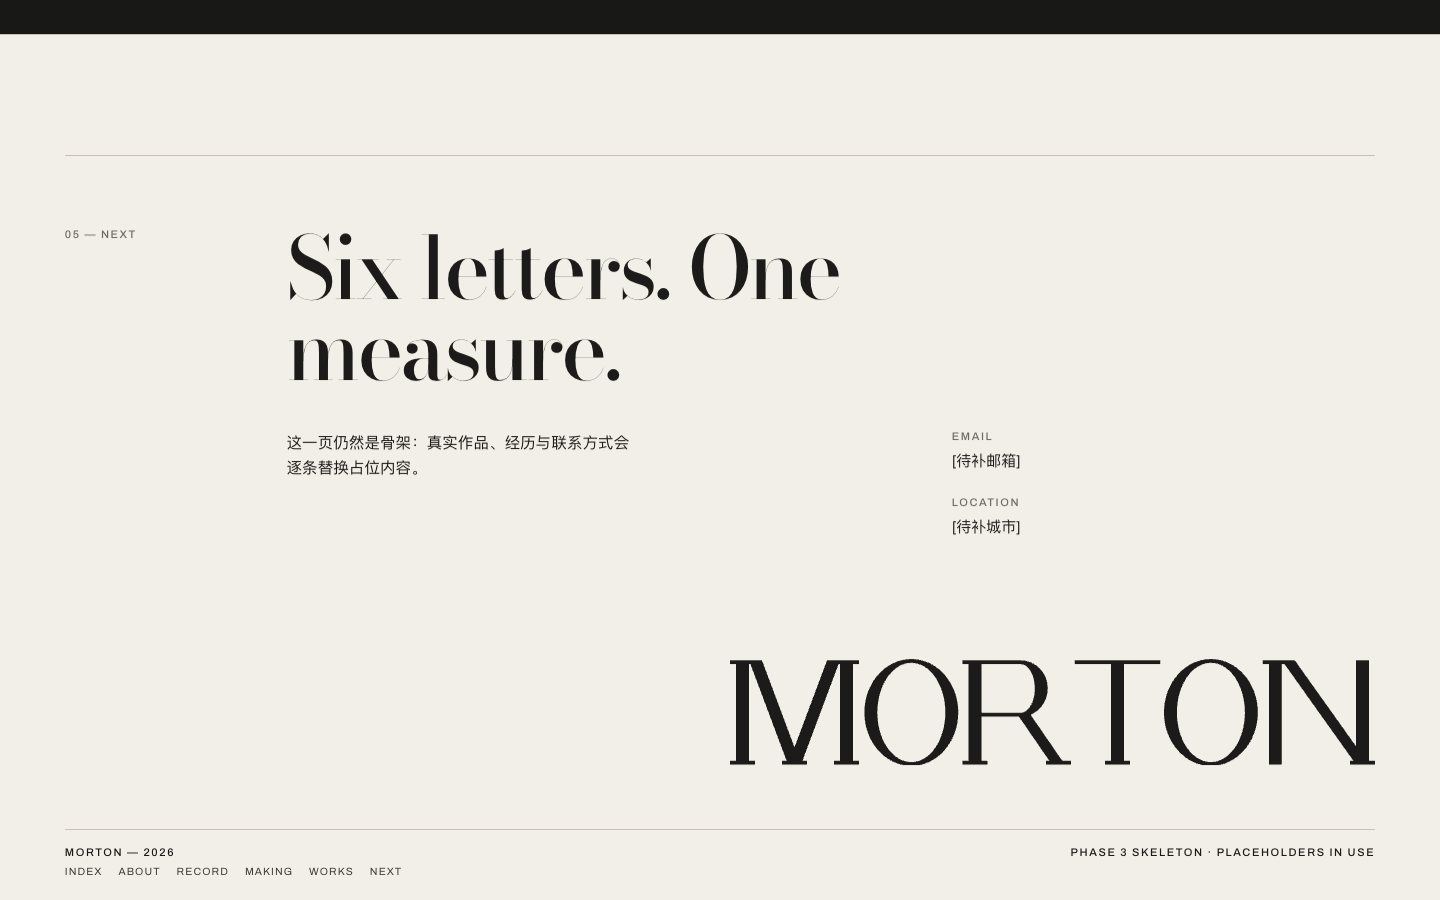
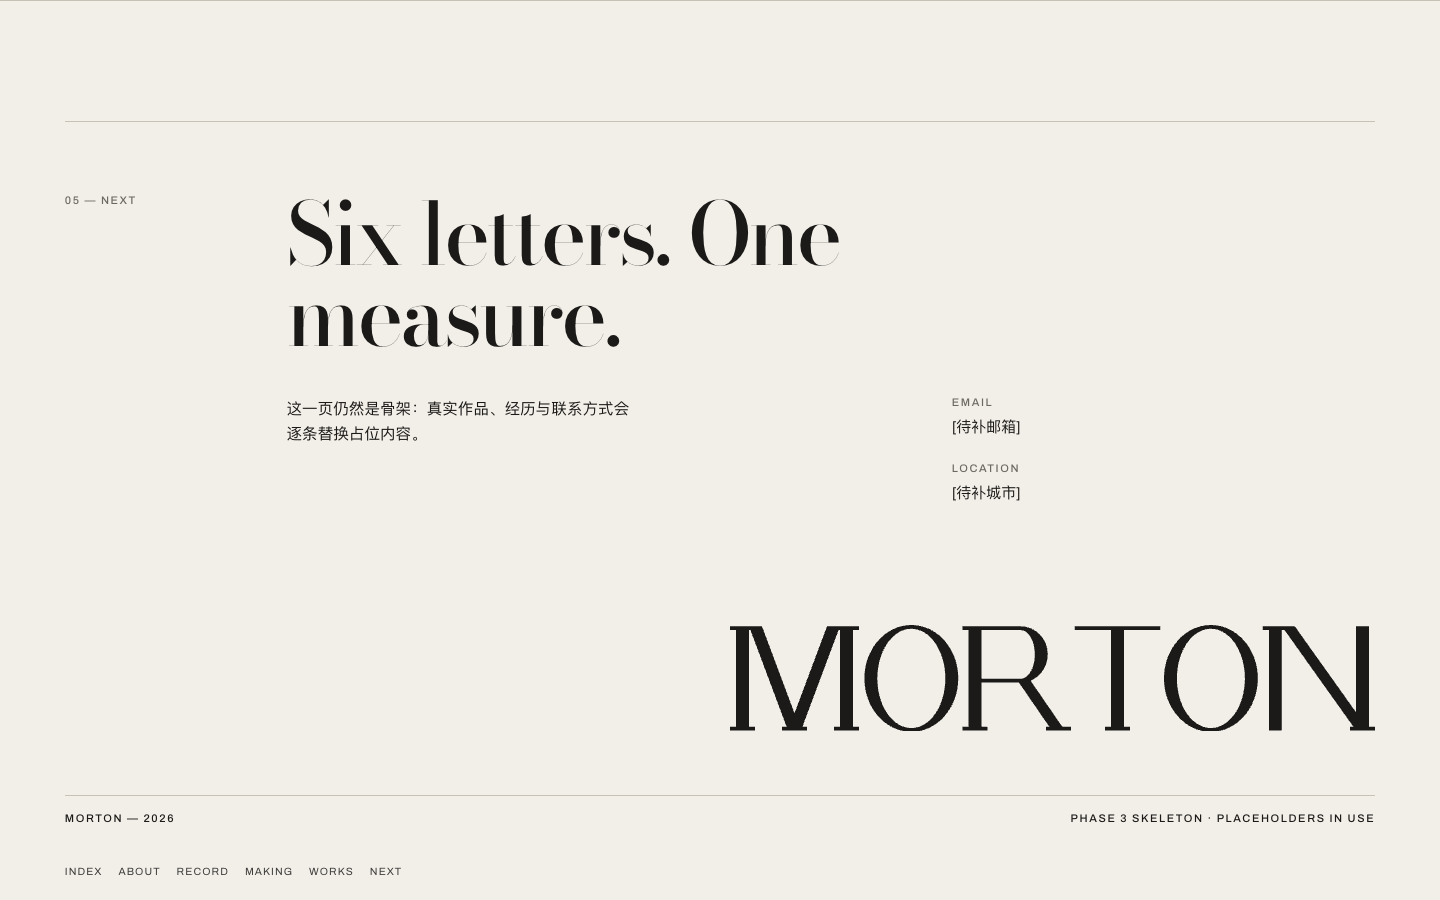
fix(v2): leave room under the Next footer for the fixed section index

diff --git a/morton-v2/src/design/site.css b/morton-v2/src/design/site.css
@@ -439,7 +439,8 @@
 /* ── 05 Next ──────────────────────────────────────────────────────────────── */
 .section-next {
   padding-top: 120px;
-  padding-bottom: 40px;
+  /* leaves room for the fixed section index so the footer never sits under it */
+  padding-bottom: 88px;
   grid-template-rows: auto auto auto;
 }
 .section-next__rule {
